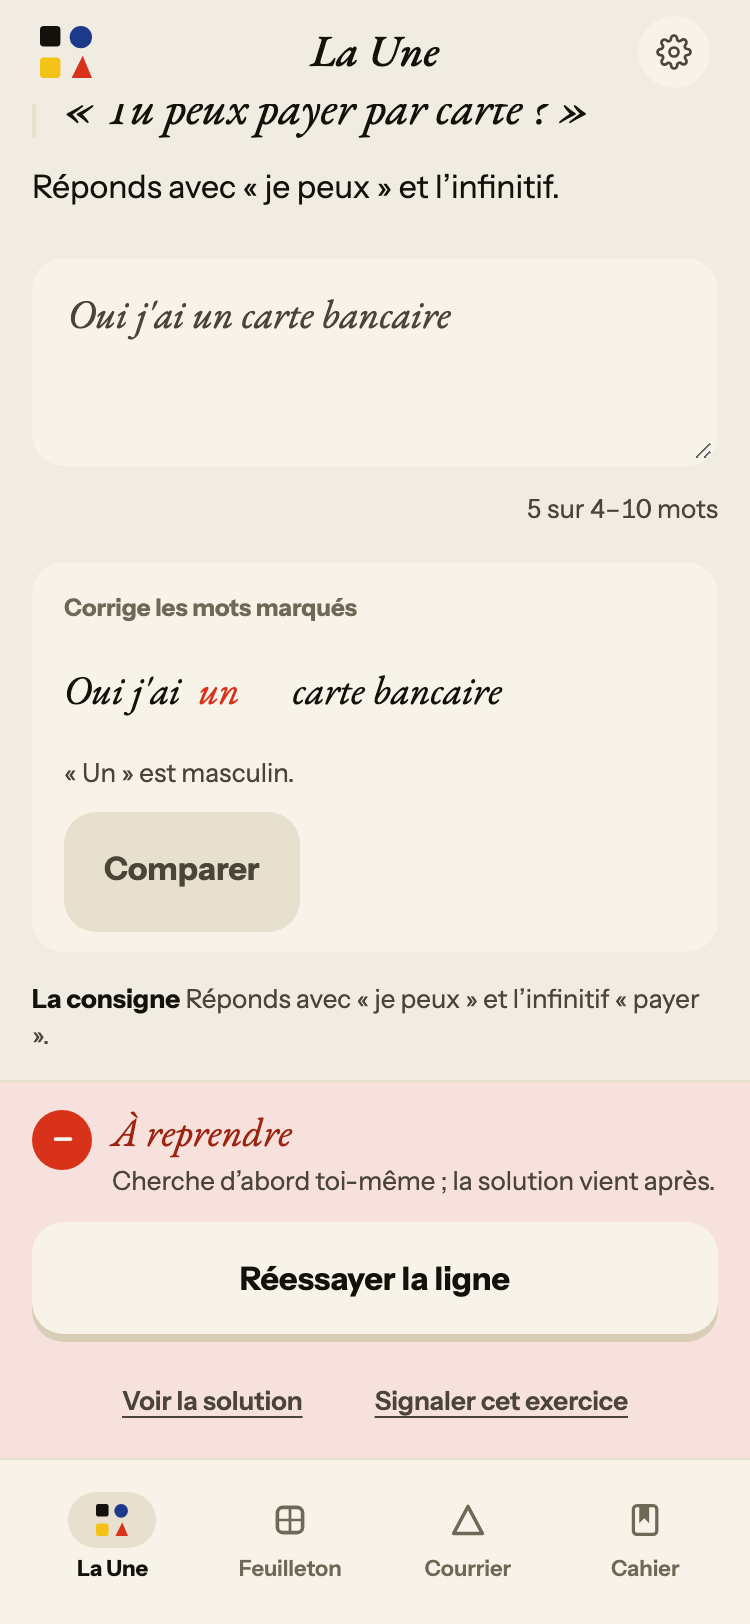
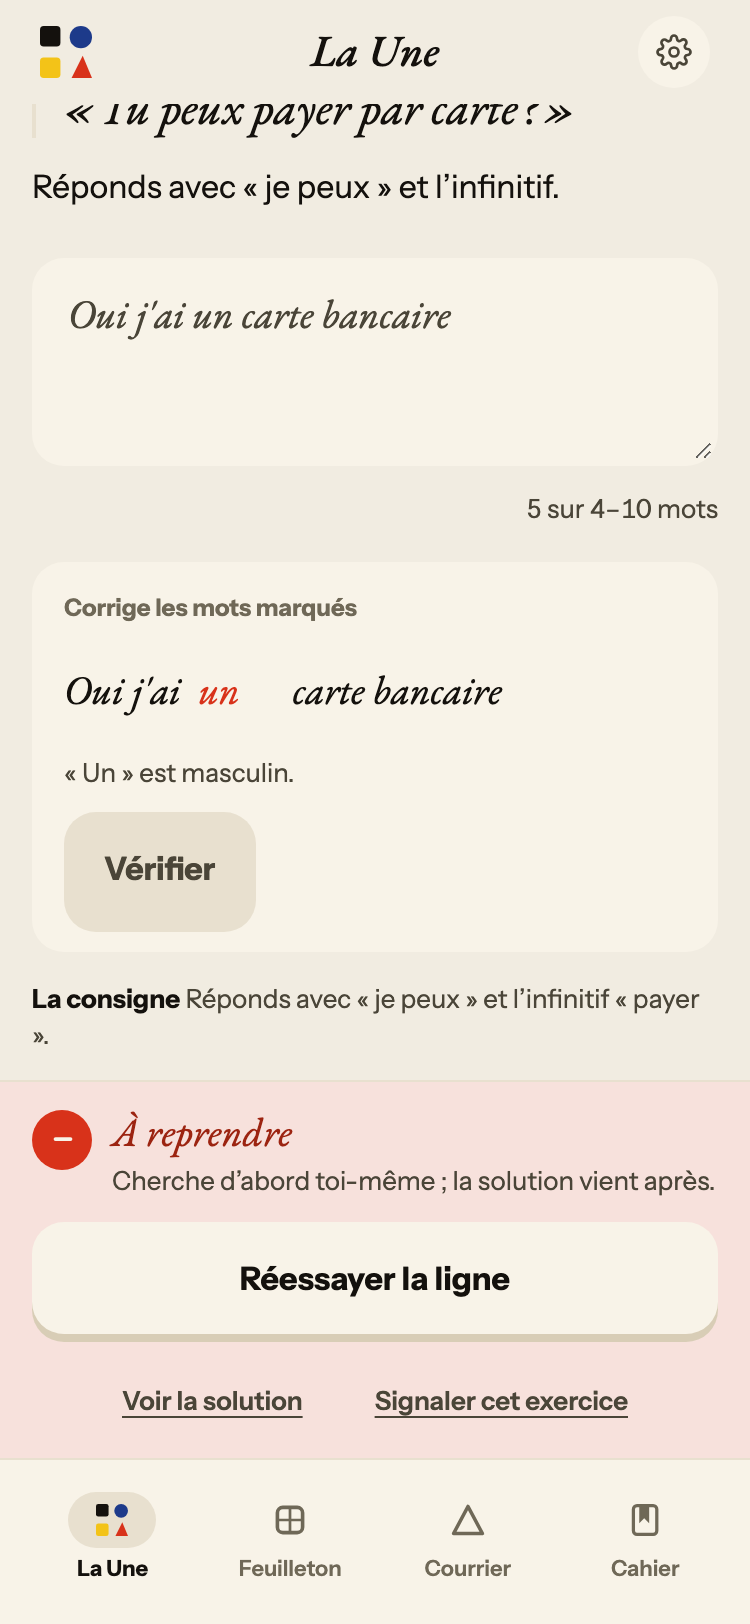
La Forge: guillemets for French speech, «Prüfen» on a repair, an honest count
- The quoted French line is set « … » with French spacing in every chrome
  language (frenchQuote), never „…“ or “…”.
- The button under a repair line sends the corrected words to be checked
  (record_micro_repair grades them ok/no), so it says what the item screen
  says: Prüfen / Check / Vérifier (Wird geprüft… / Checking… / Vérification…).
- The card's label counts the corrections it shows: a task note has its own
  line and is no longer counted («Artikel», not «2 Korrekturen»).

Screenshots in docs/walks/2026-11-13-forge-second-chance/after regenerated.

Changed region(s): [[0.1533, 0.0616, 0.7667, 0.0924], [0.1227, 0.4926, 0.3987, 0.585]]

diff --git a/web-frontend/components/epreuve/forge-reading.test.js b/web-frontend/components/epreuve/forge-reading.test.js
@@ -14,9 +14,22 @@
 const assert = require('node:assert/strict');
 const fs = require('node:fs');
 const path = require('node:path');
+const Module = require('node:module');
 const { test } = require('node:test');
 
 const WEB_ROOT = path.resolve(__dirname, '..', '..');
+require(path.join(WEB_ROOT, 'node_modules/sucrase/register/ts'));
+require(path.join(WEB_ROOT, 'node_modules/sucrase/register/tsx'));
+const originalResolve = Module._resolveFilename;
+Module._resolveFilename = function resolve(request, ...rest) {
+  if (request.startsWith('@/')) return originalResolve.call(this, path.join(WEB_ROOT, request.slice(2)), ...rest);
+  return originalResolve.call(this, request, ...rest);
+};
+const React = require('react');
+const { renderToStaticMarkup } = require('react-dom/server');
+const Ep = require('./Epreuve.tsx');
+const { promptParts } = require('@/lib/prompt-parts.ts');
+const { epreuveCopy } = require('./epreuve-copy.ts');
 const PAGE = fs.readFileSync(path.join(WEB_ROOT, 'pages/atelier.tsx'), 'utf8');
 const EPREUVE = fs.readFileSync(path.join(WEB_ROOT, 'components/epreuve/Epreuve.tsx'), 'utf8');
 
@@ -48,6 +61,37 @@ test('only the quoted line is Garamond; the situation and instruction are sans p
   assert.match(css('.av2 .ep-speech__line'), /font-style: italic/);
   assert.match(EPREUVE, /\.av2 \.ep-situation,\n\.av2 \.ep-instruction \{[^}]*font-family: var\(--av2-sans\)[^}]*font-style: normal/);
   assert.match(css('.av2 .ep-prompt--scene'), /max-width: 36em/);
+});
+
+test('French speech is in guillemets with French spacing in every chrome language', () => {
+  const NNBSP = ' ';
+  const prompts = {
+    de: 'Auf dem Markt fragt dich die Verkäuferin: „Tu peux payer par carte ?“ Antworte mit dem Infinitiv.',
+    en: 'At the market the stallholder asks you: “Tu peux payer par carte ?” Answer with the infinitive.',
+    fr: 'Au marché, la vendeuse te demande : « Tu peux payer par carte ? » Réponds avec l’infinitif.',
+  };
+  for (const [lang, prompt] of Object.entries(prompts)) {
+    const html = renderToStaticMarkup(React.createElement(Ep.EpScenePrompt, { text: prompt, split: promptParts(prompt), lang }));
+    const line = /<blockquote[^>]*>([^<]*)<\/blockquote>/.exec(html);
+    assert.ok(line, `${lang}: the quoted line is set as speech`);
+    assert.equal(line[1], `«${NNBSP}Tu peux payer par carte${NNBSP}?${NNBSP}»`, `${lang}: ${line[1]}`);
+    assert.doesNotMatch(line[1], /[„“”"]/);
+  }
+});
+
+test('the button under a repair line says it checks, as the item screen does', () => {
+  for (const lang of ['de', 'en', 'fr']) {
+    const t = epreuveCopy(lang);
+    assert.equal(t.repair_submit, t.check, lang);
+    assert.equal(t.repair_submitting, t.checking, lang);
+  }
+});
+
+test('the card counts only the corrections it shows, never the task note', () => {
+  const free = slice(PAGE, 'export function feedbackFromFreeformCorrection(', 'function feedbackForExercise(');
+  assert.match(free, /const lineErrata = errata\.filter\(\(item\) => item\.task_error_type !== 'task_compliance'\)/);
+  assert.match(free, /shownCount > 1\s*\? fill\(t\.corrections_n, \{ n: shownCount \}\)/);
+  assert.doesNotMatch(free, /n: whyLines\.length/);
 });
 
 test('the counter is sentence case, emphatic only when out of range', () => {

diff --git a/web-frontend/components/epreuve/Epreuve.tsx b/web-frontend/components/epreuve/Epreuve.tsx
@@ -50,6 +50,7 @@ import {
 import { CastPortrait } from '@/components/atelier-v2/ui/CastPortrait';
 import { CastActor, actorFigure } from '@/components/cast/vivant/CastActor';
 import { emitCameo } from '@/lib/cameo';
+import { frenchQuote } from '@/lib/french-typography';
 import { pulseAppHaptic } from '@/lib/haptics';
 import type { PortraitMood } from '@/lib/onboarding-portraits';
 
@@ -325,8 +326,6 @@ export function EpScenePrompt({
   split: { situation: string; quote: string; instruction: string } | null;
 }) {
   if (!split) return <EpPrompt cue={cue} lang={lang}>{text}</EpPrompt>;
-  const open = lang === 'fr' ? '« ' : lang === 'de' ? '„' : '“';
-  const close = lang === 'fr' ? ' »' : lang === 'de' ? '“' : '”';
   return (
     <div className="ep-prompt ep-prompt--scene" lang={lang || undefined}>
       {split.situation && <p className="ep-situation">{split.situation}</p>}
@@ -338,7 +337,9 @@ export function EpScenePrompt({
             {speaker.register && <span className="ep-speech__register" lang="fr">{speaker.register}</span>}
           </figcaption>
         )}
-        <blockquote className="ep-speech__line av2-fr" lang="fr">{open}{split.quote}{close}</blockquote>
+        {/* French speech is always in guillemets with French spacing, whatever the
+            chrome language (owner 2026-11-13): « Tu peux payer par carte ? » */}
+        <blockquote className="ep-speech__line av2-fr" lang="fr">{frenchQuote(split.quote)}</blockquote>
       </figure>
       {split.instruction && <p className="ep-instruction">{split.instruction}</p>}
       {cue && <p className="ep-cue ep-cue--quiet">{cue}</p>}

diff --git a/web-frontend/components/epreuve/epreuve-copy.ts b/web-frontend/components/epreuve/epreuve-copy.ts
@@ -317,8 +317,8 @@ const FR: EpreuveCopy = {
   relaunching: 'Vérification…',
   repair_label: 'Recopie la correction',
   repair_placeholder: 'Tape la ligne corrigée…',
-  repair_submit: 'Comparer',
-  repair_submitting: 'Comparaison…',
+  repair_submit: 'Vérifier',
+  repair_submitting: 'Vérification…',
   repair_ok: 'Phrase recopiée. Elle reviendra plus tard.',
   repair_parts_ok: 'Phrase corrigée. Elle reviendra plus tard.',
   repair_no: 'Pas tout à fait — reprends la ligne.',
@@ -501,8 +501,8 @@ const EN: EpreuveCopy = {
   relaunching: 'Checking…',
   repair_label: 'Copy the correction',
   repair_placeholder: 'Type the corrected line…',
-  repair_submit: 'Compare',
-  repair_submitting: 'Comparing…',
+  repair_submit: 'Check',
+  repair_submitting: 'Checking…',
   repair_ok: 'Line copied. It comes back later.',
   repair_parts_ok: 'Line fixed. It comes back later.',
   repair_no: 'Not quite — try the line again.',
@@ -685,8 +685,8 @@ const DE: EpreuveCopy = {
   relaunching: 'Wird geprüft…',
   repair_label: 'Schreib die Korrektur ab',
   repair_placeholder: 'Tippe die korrigierte Zeile…',
-  repair_submit: 'Vergleichen',
-  repair_submitting: 'Wird verglichen…',
+  repair_submit: 'Prüfen',
+  repair_submitting: 'Wird geprüft…',
   repair_ok: 'Abgeschrieben. Der Satz kommt später wieder.',
   repair_parts_ok: 'Ausgebessert. Der Satz kommt später wieder.',
   repair_no: 'Nicht ganz — versuch die Zeile noch einmal.',

diff --git a/web-frontend/pages/atelier.tsx b/web-frontend/pages/atelier.tsx
@@ -4953,10 +4953,14 @@ export function feedbackFromFreeformCorrection(correction: Record<string, any> |
   const taskOnly = !rewriteDiffers && (errata.length === 0 || errata.every((item) => item.task_error_type === 'task_compliance'));
   // One clean before/after for the whole line, with each error explained in the
   // note — instead of one messy before/after per erratum.
+  // Owner 2026-11-13: the card counts the corrections it shows. A task note is said in
+  // its own line under the card, so it is not one of them.
+  const lineErrata = errata.filter((item) => item.task_error_type !== 'task_compliance');
+  const shownCount = errata.length ? lineErrata.length : whyLines.length;
   const issues: AtelierErratum[] = correct ? [] : [{
-    display_label: whyLines.length > 1
-      ? fill(t.corrections_n, { n: whyLines.length })
-      : ((errata.length === 1 ? errata[0]?.display_label : '') || t.corrected_line),
+    display_label: shownCount > 1
+      ? fill(t.corrections_n, { n: shownCount })
+      : ((lineErrata.length === 1 ? lineErrata[0]?.display_label : '') || t.corrected_line),
     learner_text: learner,
     corrected_target: taskOnly ? '' : (rewriteDiffers ? shownTarget : (errata[0]?.corrected_target || '')),
     why_wrong: whyLines.join('\n') || t.task_default_why,

diff --git a/web-frontend/components/epreuve/forge-followup.test.js b/web-frontend/components/epreuve/forge-followup.test.js
@@ -118,8 +118,9 @@ test('T9 · the page holds «Right / Well done» back while the model reads, and
   assert.match(page, /reviewIsPending\(correction\)/, 'the poll asks until the model has read it');
   assert.match(page, /const secondCheck = production \? null : secondCheckChange\(correction\);/, 'no second-check reversal on production');
   assert.match(page, /forgeCorrectionNotes\(correction\)/, 'one block, notes deduplicated');
-  // «3 corrections» only when there are three distinct notes.
-  assert.match(page, /whyLines\.length > 1/);
+  // «3 corrections» only when the card shows three corrections (owner 2026-11-13: a task
+  // note is said in its own line, so it is not counted).
+  assert.match(page, /shownCount > 1/);
 });
 
 // ---------------------------------------------------------------------------

diff --git a/web-frontend/components/epreuve/epreuve-language.test.js b/web-frontend/components/epreuve/epreuve-language.test.js
@@ -83,7 +83,7 @@ const FRENCH_CHROME = [
   'Tu es…',
   'sûr·e',
   'Recopie la correction',
-  'Comparer',
+  'Vérifier',
   'Touche pour parler',
   'Je n’ai pas pu vérifier cette réponse. Réessaie.',
   'Vérifier à nouveau',
